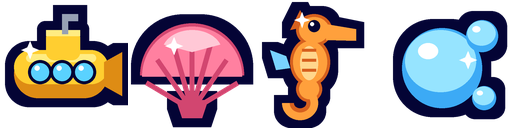
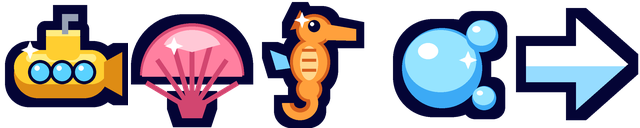
Shop UI kit in the reference style; sub stand rebuilt on it, aura shop ready (task s1)
UI/Shop.luau: window (header bar with scales, gloss, icon, outlined title, red X; slate body
with bubble dots), button (cash/off/robux/...), card, itemCard, carousel, sort, money.
SubPanel restyled (same actions, prices and attributes). AuraShop built, not wired (no
aura prices yet). Pictures drawn by tools/ui/shop_kit/shop_art.py, not uploaded.
Docs: ui.md 'Shop style'; captures beside the references in docs/attachments/shop-*.

diff --git a/tools/ui/shop_kit/shop_art.py b/tools/ui/shop_kit/shop_art.py
@@ -7,9 +7,10 @@ Writes to art/ui/shop/:
   shop_head.png   - 128x128: the header's and buttons' pattern (rows of fish scales with a lit fleck)
                     Both white on clear: the game tints them with ImageColor3 and fades them with ImageTransparency,
                     so one picture serves every colour (a tiled picture can't use an image rect, so two files).
-  shop_icons.png  - 512x128: four 128 px header icons in the icon pack's rules (one thick ink outline round the
+  shop_icons.png  - 640x128: five 128 px header icons in the icon pack's rules (one thick ink outline round the
                     silhouette, flat faces lit from the top left, a pale lip, white four-point glints):
-                    0 submarine, 1 shell, 2 seahorse, 3 bubble.
+                    0 submarine, 1 shell, 2 seahorse, 3 bubble, 4 an arrow
+                    pointing right (turned for left and down).
 --studio also copies both into Studio's own content folder (rbxasset://textures/ridefish/...), as the other UI tools
 do: nothing is uploaded. A live game falls back to an uploaded picture until Shop.Textures hold upload ids.
 """
@@ -222,6 +223,31 @@ def icon_bubble(n=128) -> Image.Image:
     return down(img, (n, n))
 
 
+def icon_arrow(n=128) -> Image.Image:
+    """A fat arrow pointing right (turned in the game for left and down): white over pale aqua, one ink outline."""
+    S = n * SS
+    u = S / 128
+    edge = int(10 * u)
+    pts = [(14, 46), (64, 46), (64, 18), (116, 64), (64, 110), (64, 82), (14, 82)]
+    poly = [(x * u, y * u) for x, y in pts]
+
+    def sil(d):
+        d.polygon(poly, fill=255)
+
+    img = outlined(sil, S, edge)
+    body = Image.new("RGBA", (S, S), (0, 0, 0, 0))
+    db = ImageDraw.Draw(body)
+    db.polygon(poly, fill=(150, 220, 255, 255))
+    top = Image.new("RGBA", (S, S), (0, 0, 0, 0))
+    ImageDraw.Draw(top).polygon(poly, fill=WHITE)
+    cut = Image.new("L", (S, S), 0)
+    ImageDraw.Draw(cut).rectangle((0, 0, S, 66 * u), fill=255)
+    body.paste(top, (0, 0), Image.composite(top.getchannel("A"), Image.new("L", (S, S), 0), cut))
+    img.alpha_composite(body)
+    glint(ImageDraw.Draw(img), 30 * u, 52 * u, 6 * u)
+    return down(img, (n, n))
+
+
 def main():
     OUT.mkdir(parents=True, exist_ok=True)
     tiles = Image.new("RGBA", (256, 128), (0, 0, 0, 0))
@@ -229,8 +255,8 @@ def main():
     tiles.paste(head_tile(), (128, 0))
     tiles.crop((0, 0, 128, 128)).save(OUT / "shop_body.png")
     tiles.crop((128, 0, 256, 128)).save(OUT / "shop_head.png")
-    icons = Image.new("RGBA", (512, 128), (0, 0, 0, 0))
-    for i, f in enumerate((icon_sub, icon_shell, icon_seahorse, icon_bubble)):
+    icons = Image.new("RGBA", (640, 128), (0, 0, 0, 0))
+    for i, f in enumerate((icon_sub, icon_shell, icon_seahorse, icon_bubble, icon_arrow)):
         icons.paste(f(), (i * 128, 0))
     icons.save(OUT / "shop_icons.png")
     # a preview on the shop's colours
@@ -249,7 +275,7 @@ def main():
                 dest.mkdir(parents=True, exist_ok=True)
                 shutil.copy(OUT / "shop_body.png", dest / "shop_body_s1.png")
                 shutil.copy(OUT / "shop_head.png", dest / "shop_head_s1.png")
-                shutil.copy(OUT / "shop_icons.png", dest / "shop_icons_s1.png")
+                shutil.copy(OUT / "shop_icons.png", dest / "shop_icons_s1b.png")
                 print("copied to", dest)
 
 

diff --git a/tools/ui/shop_kit/s1_capture.py b/tools/ui/shop_kit/s1_capture.py
@@ -104,10 +104,18 @@ def font(size):
     return ImageFont.load_default()
 
 
-def pair(ref, ours, out, title):
+def window_box(im, phone=False):
+    """Our window in a shot: the game view's middle (the phone box: 844x390 at its centre)."""
+    w, h = im.size
+    if phone:
+        return im.crop((w // 2 - 430, h // 2 - 200, w // 2 + 430, h // 2 + 200))
+    return im.crop((w // 2 - 600, 140, w // 2 + 560, 905))
+
+
+def pair(ref, ours, out, title, phone=False):
     h = 560
     a = Image.open(ref).convert("RGB")
-    b = Image.open(ours).convert("RGB")
+    b = window_box(Image.open(ours).convert("RGB"), phone)
     a = a.resize((round(a.width * h / a.height), h), Image.LANCZOS)
     b = b.resize((round(b.width * h / b.height), h), Image.LANCZOS)
     sheet = Image.new("RGB", (a.width + b.width + 30, h + 60), (24, 26, 32))
@@ -116,18 +124,19 @@ def pair(ref, ours, out, title):
     d = ImageDraw.Draw(sheet)
     d.text((14, 12), "Reference (style only)", fill=(220, 220, 220), font=font(22))
     d.text((a.width + 24, 12), title, fill=(255, 230, 120), font=font(22))
-    sheet.save(out, quality=90)
+    sheet.convert("RGB").save(out, quality=90)
     print("wrote", out)
 
 
 def sheet():
-    for which, ours, out, title in (
-        ("Sub", "sub", "shop-sub-vs-ref.jpg", "Ours: the sub stand (in the game)"),
-        ("Aura", "aura", "shop-aura-vs-ref.jpg", "Ours: the aura shop (ready, not wired)"),
-        ("Kit", "kit", "shop-kit-vs-ref.jpg", "Ours: the kit's list pieces (a sample)"),
+    for which, ours, out, title, phone in (
+        ("Sub", "sub", "shop-sub-vs-ref.jpg", "Ours: the sub stand (in the game)", False),
+        ("Aura", "aura", "shop-aura-vs-ref.jpg", "Ours: the aura shop (ready, not wired)", False),
+        ("Kit", "kit", "shop-kit-vs-ref.jpg", "Ours: the kit's list pieces (a sample)", False),
+        ("Sub", "sub-phone", "shop-sub-phone.jpg", "Ours: the sub stand on a phone (844x390)", True),
     ):
         if (OUT / f"{ours}.png").exists():
-            pair(REFS[which], OUT / f"{ours}.png", ATT / out, title)
+            pair(REFS[which], OUT / f"{ours}.png", ATT / out, title, phone)
 
 
 if __name__ == "__main__":

diff --git a/docs/design/ui.md b/docs/design/ui.md
@@ -16,6 +16,64 @@ What the user decides goes in [Decisions](../Decisions.md).
 
 Most players are on phones, so every picture is drawn for a phone held sideways first (844 by 390), then for a desktop.
 
+## Shop style (2026-11-20, Hugo; NULLROOM task s1): the sub stand in the game, the rest ready
+Hugo: the buy screens should look like his three shots from another game in the genre (a sell list, an auras shop,
+a tier shop), "replicated as well as you can but more stylised and cohesive". We copy the **style** only, never its
+art, icons, words or names. Run in Studio by script, captured from the game, not played by hand, not seen on a real
+phone.
+
+**The rules, read off the shots, made ours:**
+- **The window:** a dark slate body (34,40,54: a little blue, so it sits under water with the HUD's navy) with a fine
+  **bubble-dot** pattern (ours, in place of the reference's studs), a thick near-black border (`Shop.Edge`) and a
+  drop shadow; it pops in (0.16 s).
+- **The header bar:** one colour per shop (`Shop.Heads`: Sea for the sub stand, Lavender for auras, Kelp for selling
+  and the tank, Coral, Sand), its top half lit and split hard at the middle, a **fish-scale** pattern, a darker ledge
+  along its foot, and two pale **diagonal gloss** streaks. A shop icon at the left (drawn by us, in the icon pack's
+  rules: one ink outline, flat lit faces, white glints: a sub, a shell, a seahorse, a bubble), the title in big
+  white FredokaOne (the Kit's font) with a heavy ink edge, left after the icon or centred. The **red square X** at the right.
+- **Buttons** (`Shop.button`): flat and bright, a lighter top half, a white lip line, the scale pattern, a 3 px dark
+  edge, outlined words; a press dips them. **Green = you can pay** (or Equip), **grey = you can't** (or not yet),
+  **blue = equipped**, **orange-yellow = Robux** (Roblox's own Robux sign in green), purple and lavender for the rest.
+- **Cards** (`Shop.card`): tinted all over in their tier's colour (lit top half), a small name, a big line ("Tier 2 •
+  Sub", "Lvl 3"), a **cream picture well** with an ink edge, an optional dark stat strip ("**x2** Oxygen", the
+  multiplier in green), buttons at the foot. The chosen one gets a **light border**.
+- **List cards** (`Shop.itemCard`): the name in its rarity's colour, the picture, a green rate ("$400/s"), a dark
+  price strip with the cash sign. **Sort buttons** (`Shop.sort`): a fat down arrow and a word, green when on.
+- **Carousel** (`Shop.carousel`): a sideways row of cards with a big arrow button either side (one card a press) and a
+  thin scroll bar; drag or scroll on a phone.
+- **Money** (`Shop.money`, `Shop.cash`): green, abbreviated by `Kit.short` ($950, $5K, $31.4K, $1.4B), the cash
+  sign before it; the balance sits at the top right under the header.
+- **Fitting the screen:** a window is laid out in its own points and scaled to the screen like the tank popup (a
+  phone gets bigger points; never past the screen's edges). In Studio the workspace's `PanelPhone` (a Vector2) lays it
+  out for that phone and now refits while open.
+
+**The screens:**
+- **The sub stand (in the game, `UI/SubPanel.luau`):** rebuilt on the kit after the tier-shop shot: SUBMARINES with
+  the sub icon on the Sea header, "Pick a sub, pick a land, jump in!" and your coins in green, a carousel of the ten
+  cards (NO SUB and the nine subs, each tinted its hull colour, its model in the cream well, a zone box with LAND n in
+  gold and the land's name), and a footer with GO TO and RIDE WITH. The card's button: EQUIPPED (blue, the card
+  outlined), EQUIP (green), the next sub's price (green when you can pay, grey when you can't; FREE while
+  `Config.Sub.Free` is 1), later subs their price in grey (they used to say LOCKED). "SUBS ARE FREE FOR NOW!" shows
+  in gold while they are. Nothing it asks of the server changed; no prices changed.
+- **The aura shop (`UI/AuraShop.luau`): ready, not wired.** Auras can't be bought yet (no prices, no stand action), so
+  nothing opens it; the aura stand's owner calls `AuraShop.open(true)`. AURAS centred on the Lavender header, the
+  twelve auras as cards in their own colour, "x1.5 Oxygen", the cash button grey "SOON" and a Robux button "SOON"
+  (visual only: no product ids exist, none were made up). Your `Aura` shows EQUIPPED.
+- **The seahorse trainer's upgrade** is a prompt, not a screen (its sign is task s2); **the tank popup** is task s3,
+  which builds on this kit.
+
+**Not uploaded.** The pictures are `art/ui/shop/` (`shop_body.png`, `shop_head.png`, `shop_icons.png`), drawn by
+`tools/ui/shop_kit/shop_art.py` (`--studio` copies them into Studio's content folder:
+`rbxasset://textures/ridefish/shop_*_s1*.png`). A live game uses `Shop.Textures`' ids once they are filled; until
+then it falls back to the water picture for both patterns, shows no header icons, and draws its arrows from frames.
+
+**Seen** (Studio captures beside the references; `tools/ui/shop_kit/s1_capture.py` with the client
+`shop_client.luau`): [the sub stand](../attachments/shop-sub-vs-ref.jpg),
+[on a phone, 844x390](../attachments/shop-sub-phone.jpg), [the aura shop](../attachments/shop-aura-vs-ref.jpg),
+[the kit's list pieces](../attachments/shop-kit-vs-ref.jpg) (a "Sell Fish" sample built only in the capture: sort
+buttons, list cards, a footer with a total and a Robux and a grey sell button; there is no sell screen in the game).
+The shots were taken with `Config.Sub.Free` set to 0 on the capturing client only, to show the price colours.
+
 ## The fish pictures are the partner's renders (2026-11-19, Hugo; NULLROOM task r1): in Studio, not uploaded
 Hugo: "wasnt there other icons of the fishes that my partner made? check and replace if there is, just the renders
 though". Every fish picture that goes through `UI/Portrait.luau` (the inventory slots, the catch screen's tiles, the
